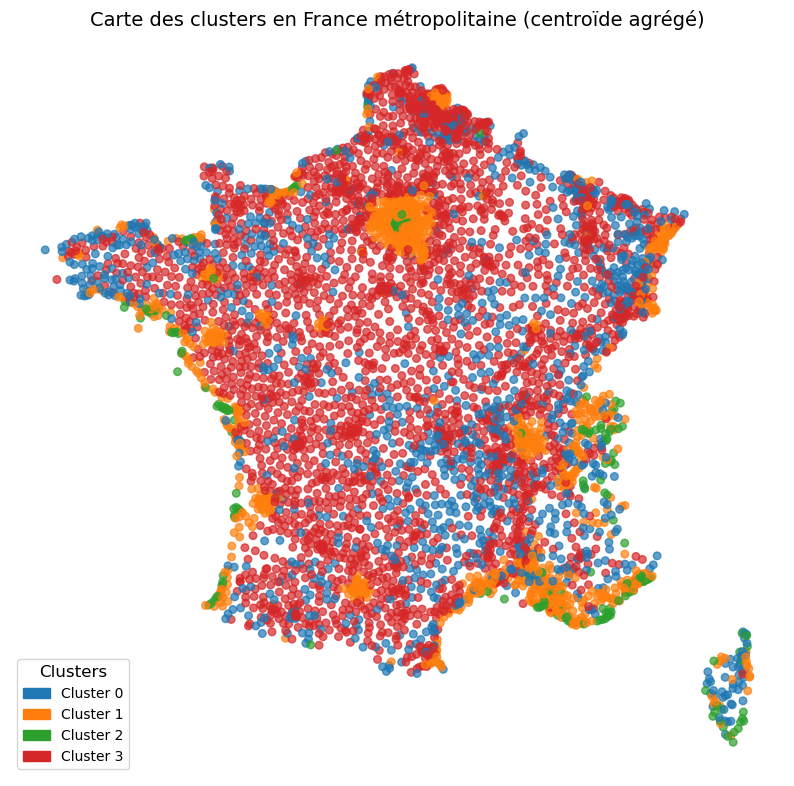
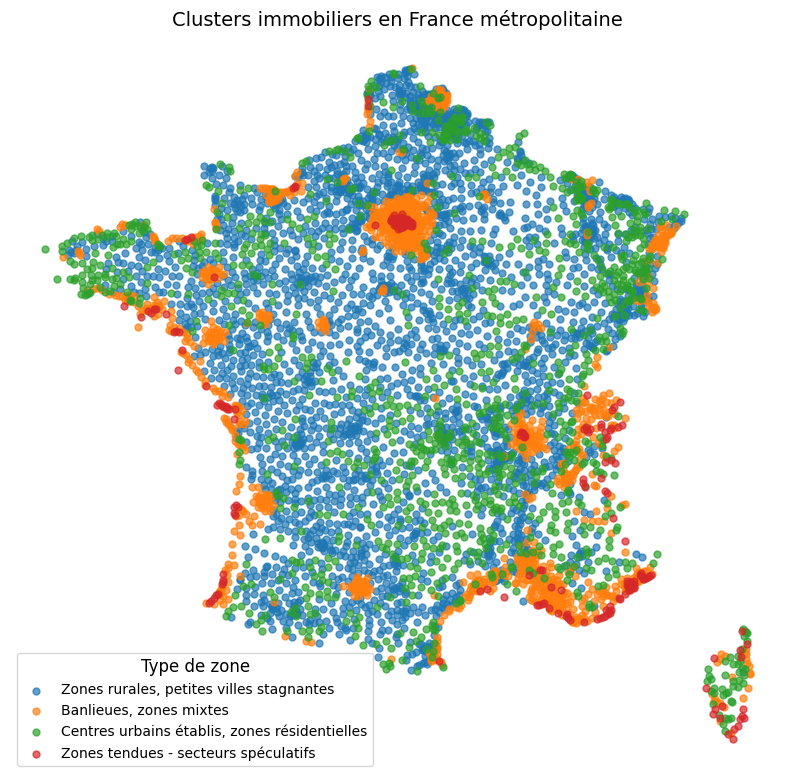
update map

diff --git a/pages/03 - Exploration des TimeSeries.py b/pages/03 - Exploration des TimeSeries.py
@@ -68,12 +68,12 @@ distrib_cluster(df_cluster_input)
 st.write('\n')
 
 st.markdown("""
-| Cluster | Couleur | Niveau de prix     | Volatilité       | Croissance (`tc_am_reg`) | Interprétation économique                                         |
-|---------|---------|--------------------|------------------|---------------------------|-------------------------------------------------------------------|
-| 0       | Bleu    | Moyen à élevé       | Faible           | Modérée                   | Centres urbains établis, zones résidentielles stables            |
-| 1       | Orange  | Moyen à élevé       | Élevée           | Modérée à forte           | Banlieues, zones mixtes ou périurbaines en transformation         |
-| 2       | Vert    | Faible              | Très faible      | Faible à négative         | Zones rurales, petites villes stagnantes ou décroissantes        |
-| 3       | Rouge   | Très élevé          | Très élevée      | Modérée à forte           | Zones tendues : luxe, hypercentres, littoraux, secteurs spéculatifs |
+| Cluster |  Couleur  | Niveau de prix |    Volatilité   |    Croissance (tc\_am\_reg)   | Interprétation économique                                       |
+| :-----: | :-------: | :------------: | :-------------: | :---------------------------: | :-------------------------------------------------------------- |
+|    0    |  🔵 Bleu  |   **Faible**   | **Très faible** | **Faible / parfois négative** | **Zones rurales / petites villes stagnantes**                   |
+|    1    | 🟠 Orange |  **Moyen-bas** |   **Modérée**   |          **Modérée**          | **Périphéries et banlieues**                   |
+|    2    |  🟢 Vert  | **Moyen-haut** |   **Modérée**   |      **Modérée à bonne**      | **Centres urbains établis, marchés résidentiels stables**       |
+|    3    |  🔴 Rouge | **Très élevé** |    **Élevée**   |           **Forte**           | **Zones tendues / spéculatives (luxe, hypercentre, littoral…)** |
 """)
 
 
